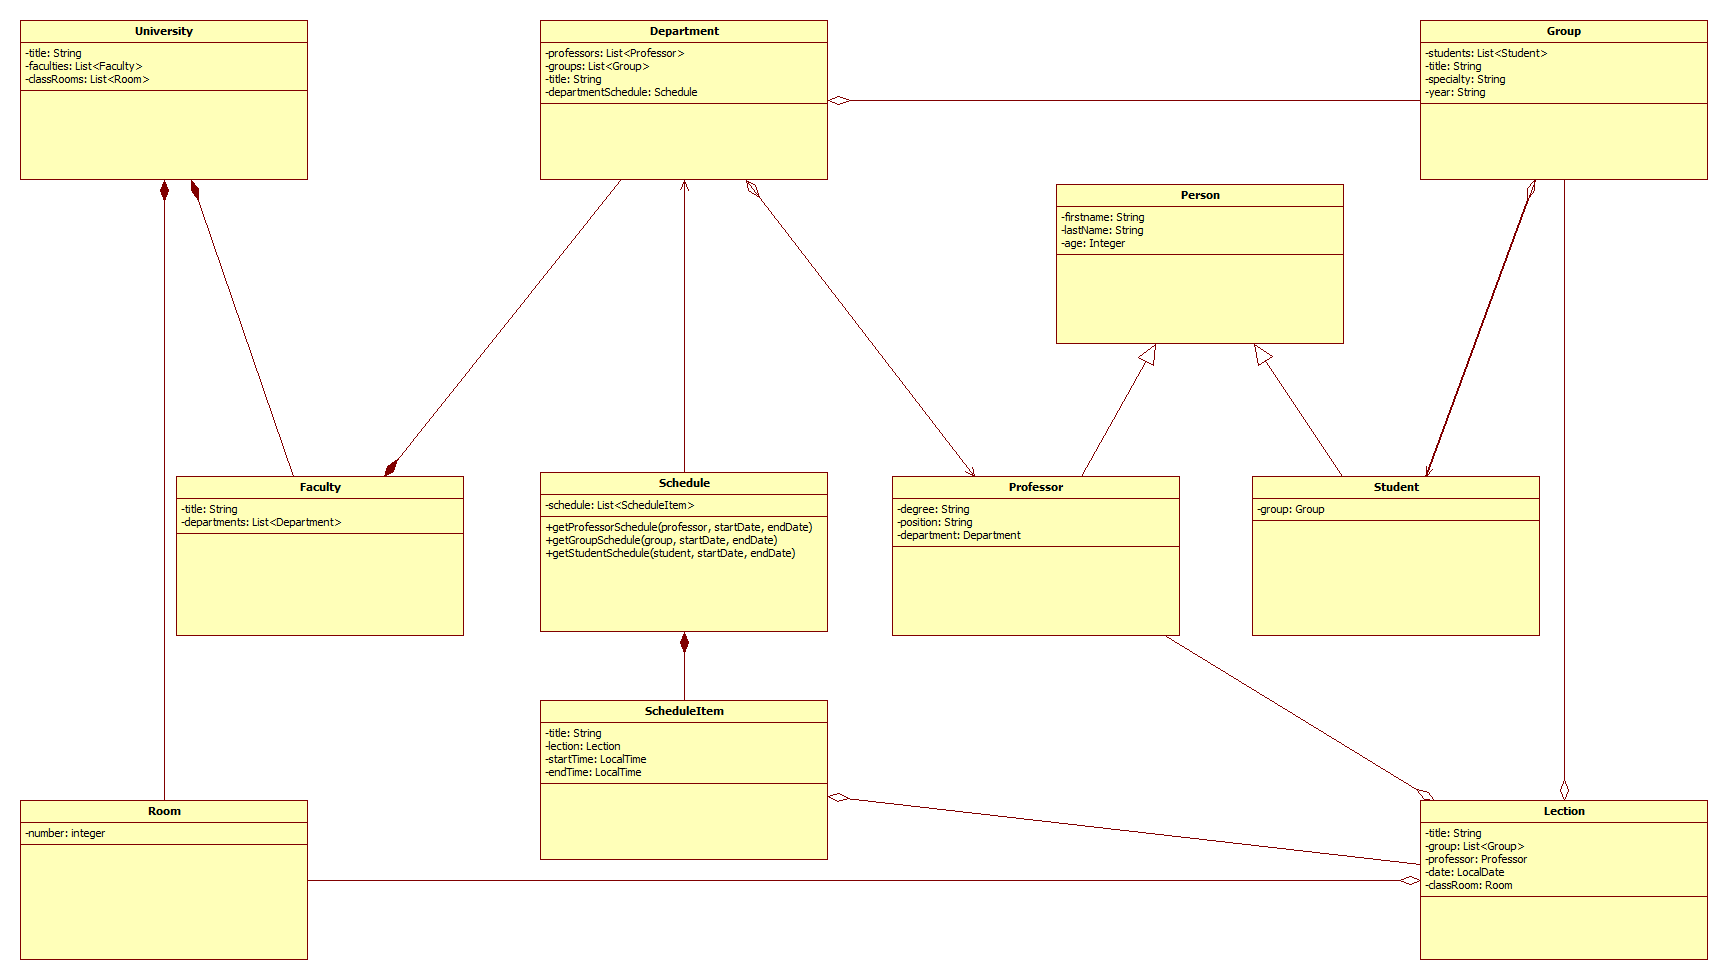
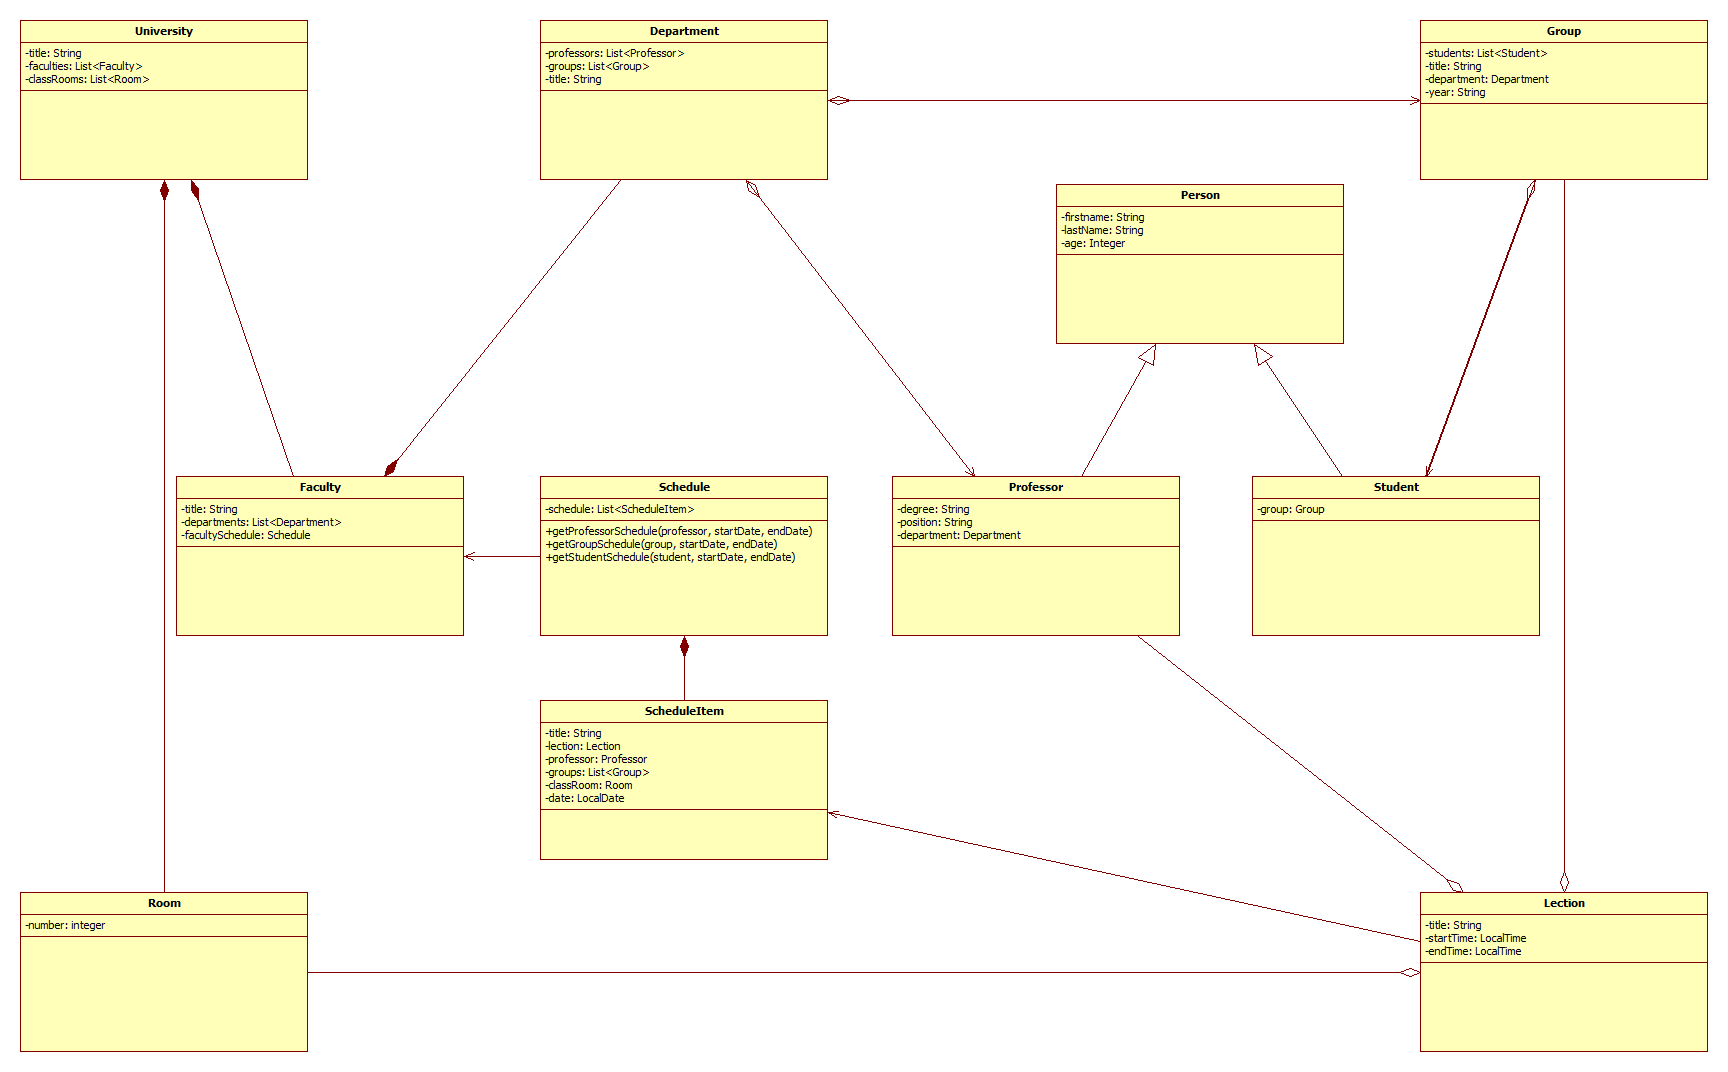
Modified UML diagram. Add description.txt file.

diff --git a/readme.md b/readme.md
@@ -1,0 +1,23 @@
+# University
+
+This is an educational project. It allows me to train my skills in UML diagram composition and designing application for university management.
+
+## Getting Started
+
+## Running the tests
+
+
+## Deployment
+## Built With
+
+## Contributing
+
+## Versioning
+
+## Author
+
+* Opanasenko Yurii
+
+
+
+
